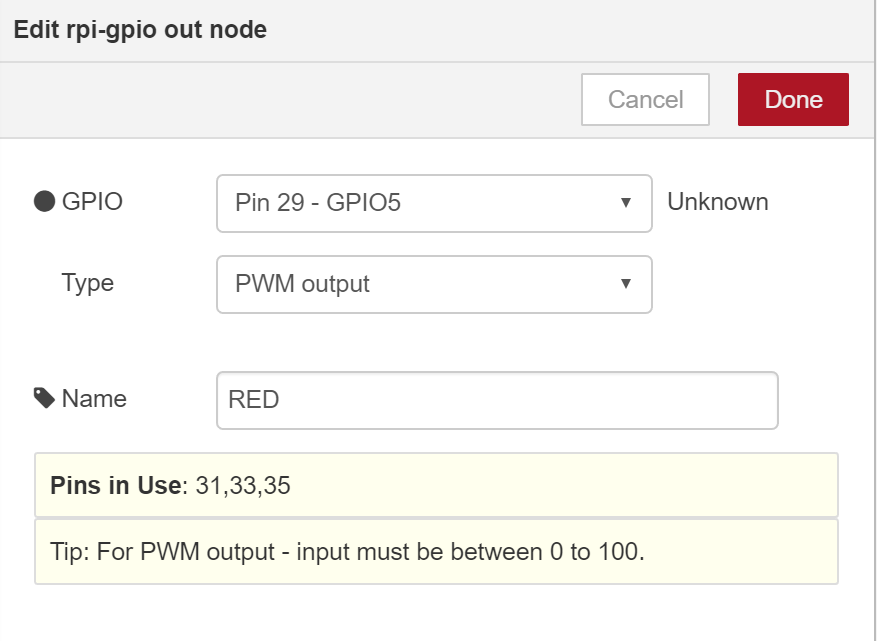
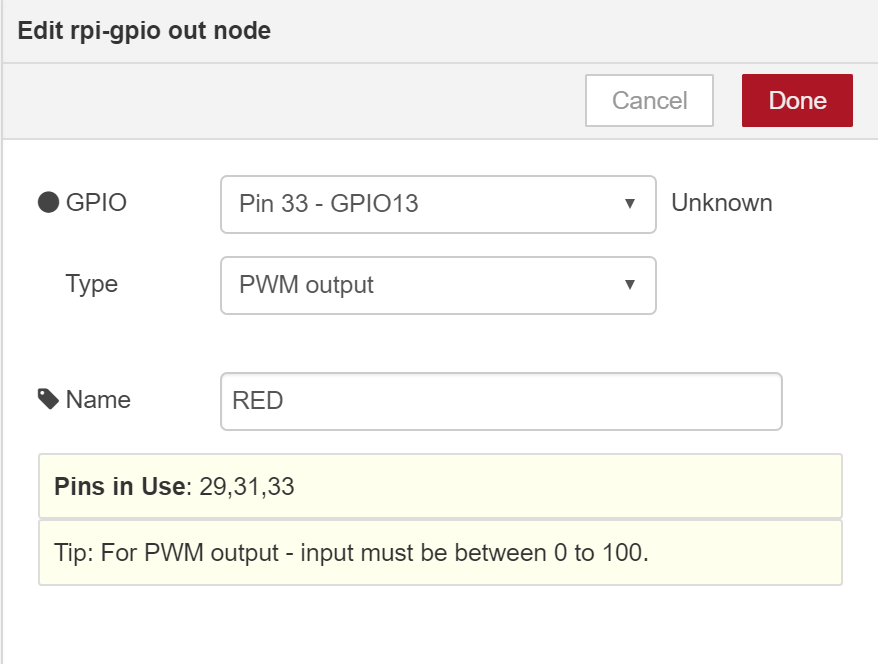
UPDATE:  Corrections

diff --git a/raspberry-pi/pi-zero/node-zero/README.md b/raspberry-pi/pi-zero/node-zero/README.md
@@ -14,8 +14,8 @@ We'll start by setting up the hardware side of things.  Take your components and
 Wires (See Pi Pinout Chart):
 * Yellow - to 3.3V supply pin
 * Green - to GPIO6
-* Red - to GPIO5
-* Blue - to GPIO13
+* Red - to GPIO13
+* Blue - to GPIO5
 
 Resistors:
 * 3kΩ (green, brown, red, gold) - inline with the blue and green wires
@@ -39,7 +39,7 @@ This will provide a sample input into your flow, in this case, it just tells the
 
 ### Splitting the colors
 
-Our RGB LED is controlled via 3 different GPIO pins on the Pi, so we need to split our single input into 3 distinct inputs, one for each RGB component.  There are lots of ways to do this in NodeRED and in this example, we're going to use some simple JavaScript to do the job.
+Our RGB LED is controlled via 3 different GPIO pins on the Pi, so we need to split our single input into 3 distinct outputs, one for each RGB component.  There are lots of ways to do this in NodeRED and in this example, we're going to use some simple JavaScript to do the job.
 
 Drag a 'function' function node onto your flow, and set it up to look like this:
 
@@ -55,7 +55,11 @@ Now that we can take an input message and split it into 3 color messages, we wan
 
 ![GPIO Setup](sketches/NodeRED_GpioSetup.png)
 
-*Do this for two additional nodes (Green and Blue), mapping to the pins mentioned above (6 and 13).*
+*Do this for two additional nodes (Green and Blue), mapping to the pins mentioned above (5 and 6).*
+
+```
+As mentioned above, we need to invert the incoming values, the reason for this is that PWM values are between 0-100.  If you send a '0' to the pin, it turns the pin on all the time, and sending 100 turns the pin off all the time (with our setup).  Since we want a value of 255 to mean that the color is 'on', we need to make that value = 0, so we calculated it by subtracing (255 - 255 = 0).
+```
 
 Now, let's start connecting things together.  Click-Drag from the output of the 'Turn off LED' node to the input of the 'Extract Colors' node.  Then connect the 3 output circles of 'Extract Colors' to the 'Red', 'Green' and 'Blue' input circles (remember, the colors go in order, from top->bottom).  The end result should look something like this:
 
@@ -85,7 +89,17 @@ Now, HTTP input by itself will work, but it would be nice to tell the person mak
 
 ![Setting up the output](sketches/NodeRED_Template.png)
 
-Once we have the template, we can send the response to the user, so drag an 'http' output node onto the flow below the 'Blue' node and name it 'Send Response'.  Then do the final flow 'wiring'.  The output circle on the 'PUT Color' node should flow into the input circle on 'Extract Colors' AND to the input circle on 'Construct Response' (inputs and outputs can be connected to multiple places, this causes the messages to be delivered to each place at the same time).  Then connect the output of 'Construct Response' to the input of 'Send Response'.  Once you're done, your flow should look something like this:
+Once we have the template, we can send the response to the user, so drag an 'http' output node onto the flow below the 'Blue' node and name it 'Send Response'.  
+
+### Final Wiring
+
+Set up these connections:
+* The output circle on the 'PUT Color' node should flow to the input circle on 'Extract Colors'
+* The output circle on the 'PUT Color' node should flow to the input circle on 'Construct Response'
+    * Inputs and outputs can be connected to multiple places, this causes the messages to be delivered to each place at the same time
+* Connect the output of 'Construct Response' to the input of 'Send Response'.
+
+Once you're done, your flow should look something like this:
 
 ![Final Layout](sketches/NodeRED_Final.png)
 
@@ -99,7 +113,7 @@ On your laptop, you should have a program called 'Postman', we'll use this progr
 
 Change the dropdown to say 'PUT' and type the URL for your Pi:
 
-![PUT Request](sketches/Postman_PUT.png)
+![PUT Request](sketches/Postman_Put.png)
 
 To tell the Pi that we're sending JSON, we need to add a Header:
 
